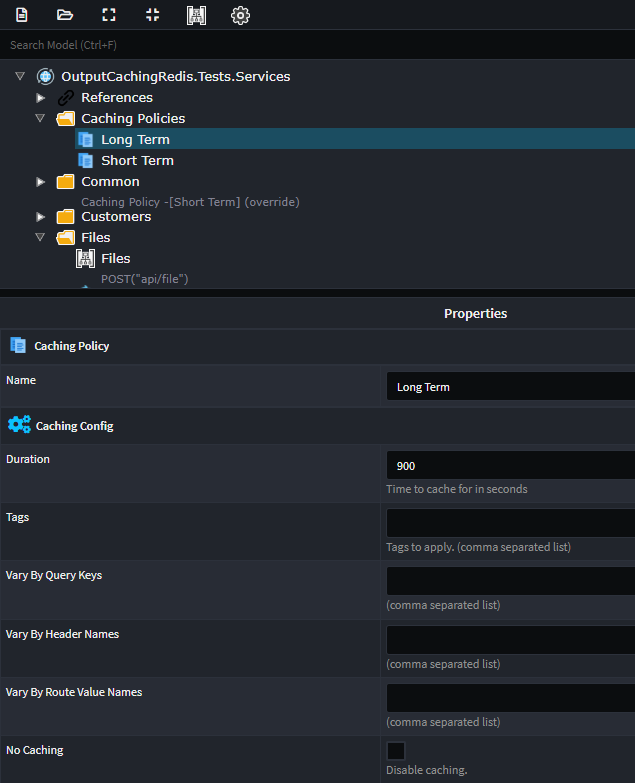
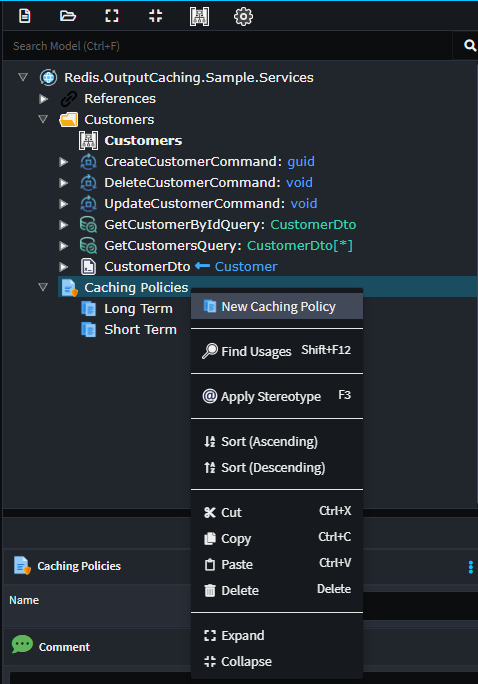
Docs, Tooltips and Fixes

Changed region(s): [[0.0, 0.0, 1.0, 1.0]]

diff --git a/Modules/Intent.Modules.AspNetCore.OutputCaching.Redis/Templates/OutputCachingConfiguration/OutputCachingConfigurationTemplatePartial.cs b/Modules/Intent.Modules.AspNetCore.OutputCaching.Redis/Templates/OutputCachingConfiguration/OutputCachingConfigurationTemplatePartial.cs
@@ -71,7 +71,7 @@ namespace Intent.Modules.AspNetCore.OutputCaching.Redis.Templates.OutputCachingC
                                     {
                                         if (config.Duration() is not null)
                                         {
-                                            builderFluent.AddChainStatement($"Expire(TimeSpan.FromSeconds(configuration.GetValue<int?>(\"{ GetTimeoutConfigSetting(cachingPolicy) }\") ?? {config.Duration()}))");
+                                            builderFluent.AddChainStatement($"Expire(TimeSpan.FromSeconds(configuration.GetValue<int?>(\"{GetTimeoutConfigSetting(cachingPolicy)}\") ?? {config.Duration()}))");
                                         }
                                         if (!string.IsNullOrEmpty(config.Tags()))
                                         {
@@ -95,7 +95,7 @@ namespace Intent.Modules.AspNetCore.OutputCaching.Redis.Templates.OutputCachingC
                                         }
                                         if (NothingConfigured(config))
                                         {
-                                            builderFluent.AddChainStatement($"Expire(TimeSpan.FromSeconds(configuration.GetValue<int?>(\"{ GetTimeoutConfigSetting(cachingPolicy) }\") ?? 300))");
+                                            builderFluent.AddChainStatement($"Expire(TimeSpan.FromSeconds(configuration.GetValue<int?>(\"{GetTimeoutConfigSetting(cachingPolicy)}\") ?? 300))");
                                         }
                                     }
                                     lambda.AddInvocationStatement("options.AddPolicy", policy =>

diff --git a/Modules/Intent.Modules.AspNetCore.OutputCaching.Redis/README.md b/Modules/Intent.Modules.AspNetCore.OutputCaching.Redis/README.md
@@ -18,9 +18,12 @@ This module consumes your `Service Model`, which you build in the `Service Desig
 
 ## Service Designer
 
-Caching is typically done through policies which describe the caching behaviour. Caching on you end-point operations can by done with or with out policies, and policies can be tailored per end-point.
+Caching is typically done through policies which describe the caching behaviour. Caching on your end-point operations can by done with or without policies, and policies can be tailored per end-point.
 
-To create Policies simply add them to you service designer as follows:
+To create Policies simply:
+
+- `Right Click` on the `Package` and select `Add Caching Policies`.
+- `Right Click` on the `Caching Policies` and select `New Caching Policy`.
 
 ![Creating Policies](./docs/images/caching-policy.png)
 
